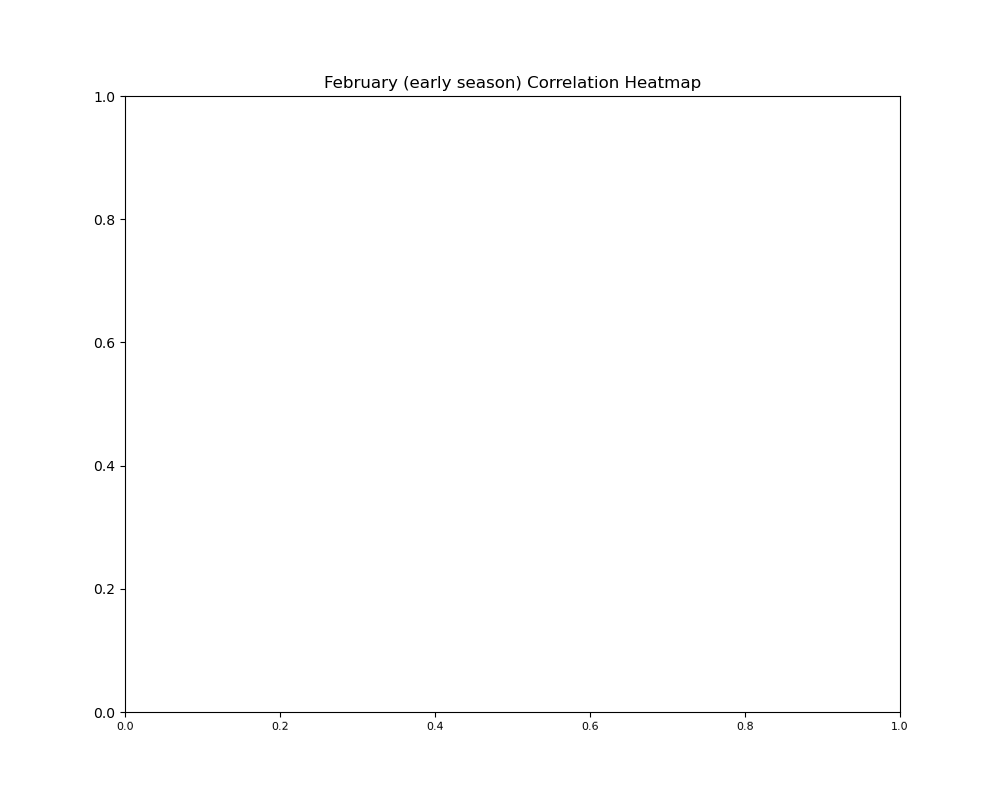
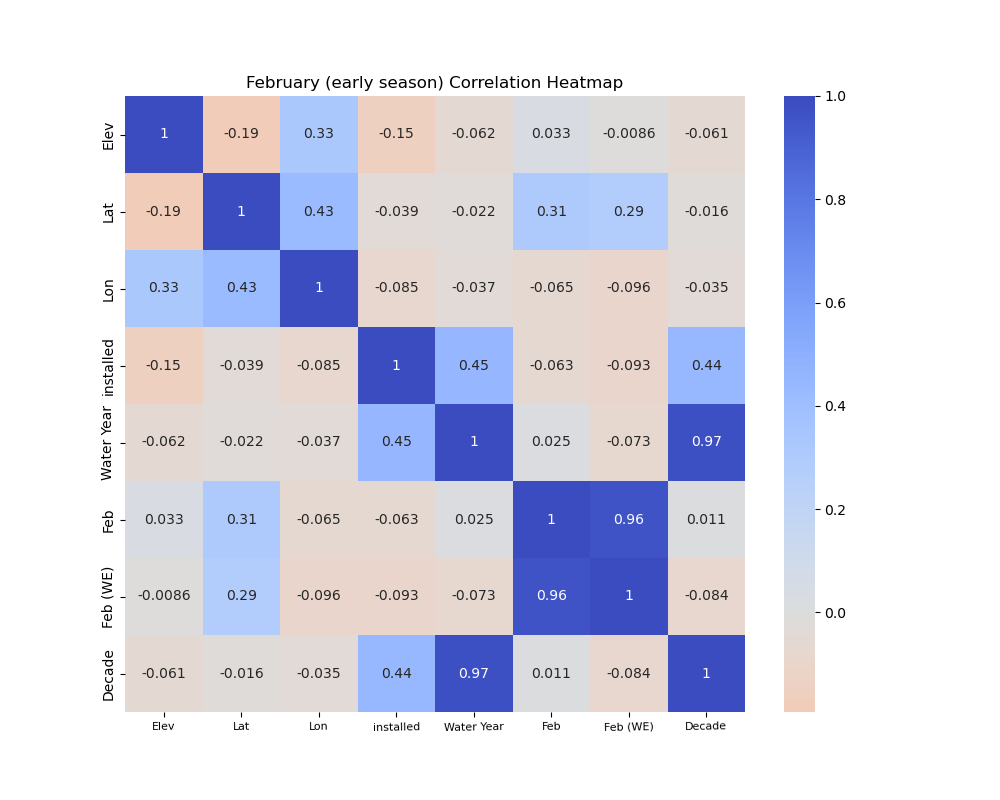
eda png edits

diff --git a/eda.py b/eda.py
@@ -83,13 +83,12 @@ site_snow_main
 
 # EDA: Monthly Correlation Heatmaps #
 #####################################
-
+plt.figure(figsize=(10, 8)) 
 # January:
 site_snow_main_jan = site_snow_main.iloc[:, list(range(1, 9)) + [19]].dropna()
 site_snow_main_jan['Decade'] = pd.to_numeric(site_snow_main_jan['Decade'], errors='coerce')
 corr_matrix = site_snow_main_jan.corr()
 sns.heatmap(corr_matrix, annot=True, cmap='coolwarm_r', center=0.00)
-plt.figure(figsize=(10, 8)) 
 plt.title('January (early season) Correlation Heatmap')
 plt.xticks(rotation=1, fontsize=8)
 
@@ -101,7 +100,6 @@ site_snow_main_feb = site_snow_main.iloc[:, list(range(1, 7)) + [9] + [10] + [19
 site_snow_main_feb['Decade'] = pd.to_numeric(site_snow_main_feb['Decade'], errors='coerce')
 corr_matrix = site_snow_main_feb.corr()
 sns.heatmap(corr_matrix, annot=True, cmap='coolwarm_r', center=0.00)
-plt.figure(figsize=(10, 8)) 
 plt.title('February (early season) Correlation Heatmap')
 plt.xticks(rotation=1, fontsize=8)
 
@@ -113,7 +111,6 @@ site_snow_main_apr = site_snow_main.iloc[:, list(range(1, 7)) + [13] + [14] + [1
 site_snow_main_apr['Decade'] = pd.to_numeric(site_snow_main_apr['Decade'], errors='coerce')
 corr_matrix = site_snow_main_apr.corr()
 sns.heatmap(corr_matrix, annot=True, cmap='coolwarm_r', center=0.00)
-plt.figure(figsize=(10, 8)) 
 plt.title('April (late season) Correlation Heatmap')
 plt.xticks(rotation=1, fontsize=8)
 
@@ -125,7 +122,6 @@ site_snow_main_may = site_snow_main.iloc[:, list(range(1, 7)) + [15] + [16] + [1
 site_snow_main_may['Decade'] = pd.to_numeric(site_snow_main_may['Decade'], errors='coerce')
 corr_matrix = site_snow_main_may.corr()
 sns.heatmap(corr_matrix, annot=True, cmap='coolwarm_r', center=0.00)
-plt.figure(figsize=(10, 8)) 
 plt.title('May (late season) Correlation Heatmap')
 plt.xticks(rotation=1, fontsize=8)
 

diff --git a/streamlit_dashboard.py b/streamlit_dashboard.py
@@ -27,6 +27,29 @@ st.title('Utah Snow Accumulation Study: Patterns 1979-2023')
 ### Site Installment Map
 st.subheader('Correlation Heatmaps: By Month, Observing Key Factors')
 
+selected_month = st.selectbox('Select a Month:', ['Jan', 'Feb', 'Apr', 'May'])
+
+fig_h1 = Image.open('./images/jan_heatmap.png')
+fig_h2 = Image.open('./images/feb_heatmap.png')
+fig_h3 = Image.open('./images/apr_heatmap.png')
+fig_h4 = Image.open('./images/may_heatmap.png')
+
+if selected_month == 'Jan':
+    st.image(fig_h1, caption='January',
+             use_column_width=True)
+    st.empty()
+elif selected_month == 'Feb':
+    st.image(fig_h2, caption='February',
+             use_column_width=True)
+    st.empty()
+elif selected_month == 'Apr':
+    st.image(fig_h3, caption='April',
+             use_column_width=True)
+    st.empty()
+elif selected_month == 'May':
+    st.image(fig_h4, caption='May',
+             use_column_width=True)
+    st.empty()
 
 
 ########################
